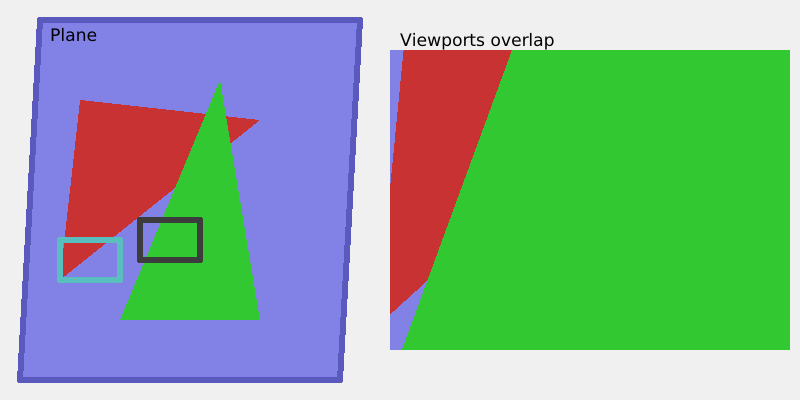
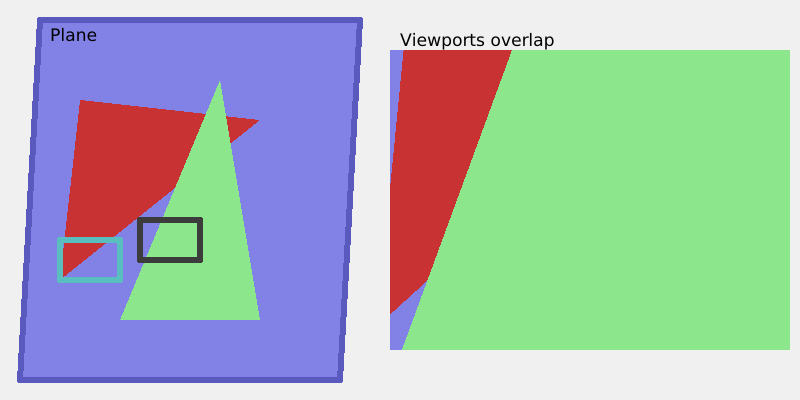
changed image colors

diff --git a/examples/readme_images/multiple_viewports.rs b/examples/readme_images/multiple_viewports.rs
@@ -65,7 +65,7 @@ fn main() {
         color: [200, 50, 50, 255]   // красный
     };
     let inner_triangle2_color = SolidShader {
-        color: [50, 200, 50, 255]   // зелёный
+        color: [140u8, 230u8, 140u8, 255u8]   // зелёный
     };
 
     let vp_outline1 = SolidShader{